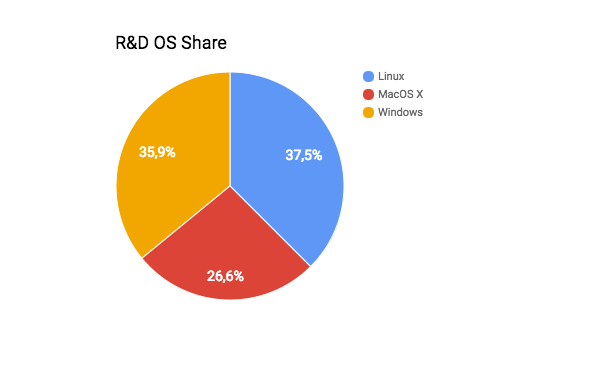
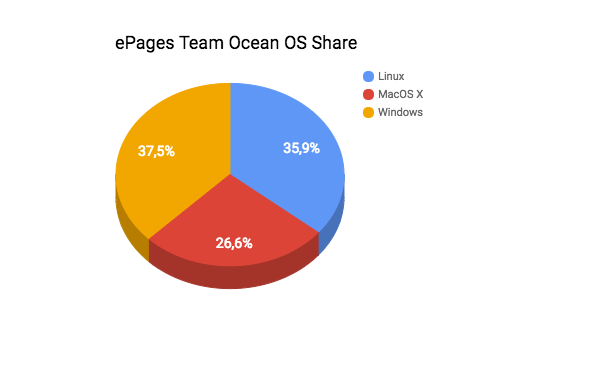
Blog post update

diff --git a/_posts/2016/2016-12-02-which-os-would-you-choose.md b/_posts/2016/2016-12-02-which-os-would-you-choose.md
@@ -1,6 +1,6 @@
 ---
 layout: post
-title: "Which operating system would you choose?"
+title: "The battle of the Operating Systems"
 date: "2016-12-06 06:34:02"
 image: blog-header/apple-pear-choose.jpg
 categories: tech-stories
@@ -60,9 +60,9 @@ A quick look at the numbers will show us that ePages has a nicely mixed ecosyste
 
 If we take a look at the status of OS installations by departments, we can find out that Product Management, Sales, and Marketing are the ones where Windows is more extensively used.
 Graphic designers have a natural tendency to using Mac.
-And within R&D, there is the biggest mix of systems with Linux as the most commonly used.
-A closer look to the R&D department shows that in this case Linux has a bigger piece of the cake (37.5%) than in previous charts and on the other hand MacOS X has a little bit less weight between developers (26.6%).
-But Windows still is the second most used platform.
+And within R&D, there is the biggest mix of systems with Windows as the most commonly used.
+A closer look to Ocean Teams shows that in this case Linux has a bigger piece of the cake (35.9%) than in previous charts and on the other hand MacOS X has a little bit less weight between developers (26.6%).
+But Windows still is the most used platform (37.5%).
 
 {% image blog/blog-os_market_share_03.png %}
 
